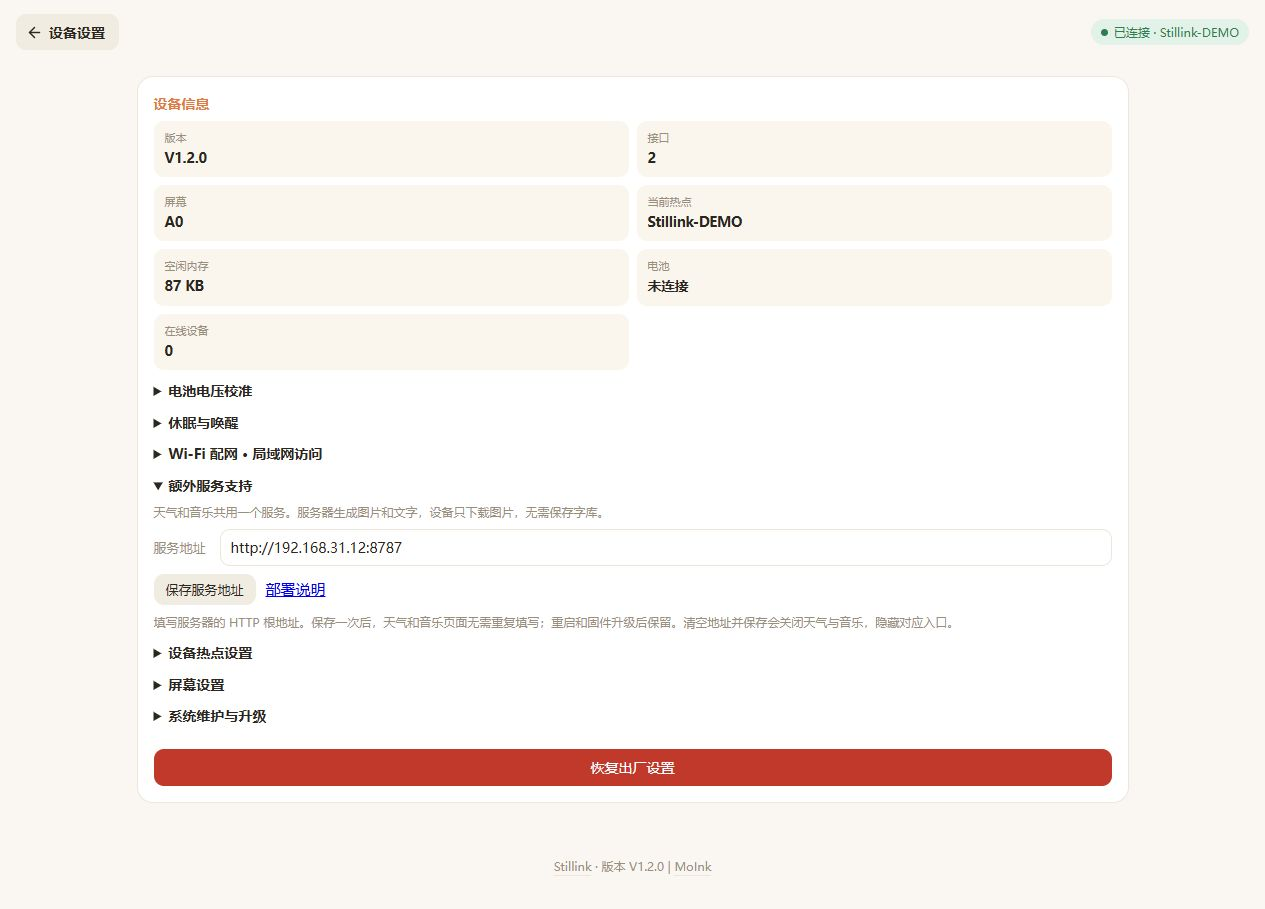
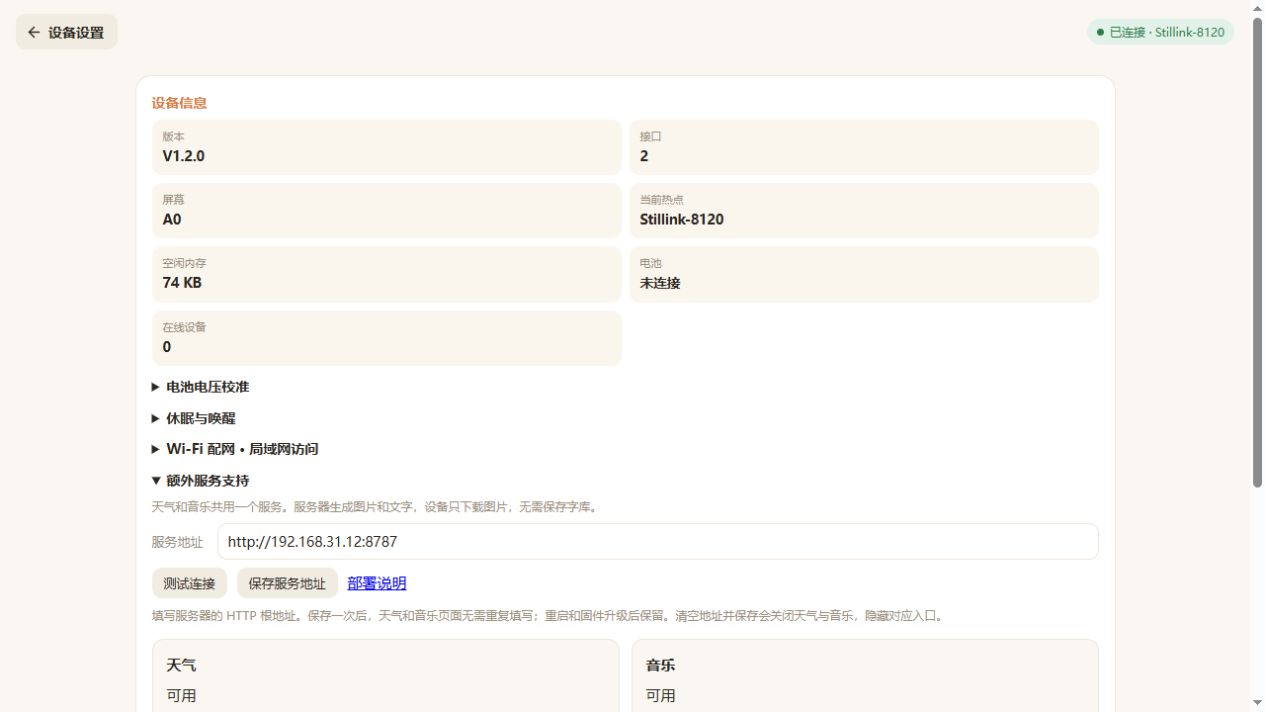
Refresh README with live music and updated service previews

diff --git a/README.md b/README.md
@@ -17,7 +17,7 @@
 
 ## 功能展示
 
-以下为网页操作截图与示例预览，墨水屏效果以实物为准。
+以下为新版网页操作截图与卡片渲染预览，墨水屏效果以实物为准。天气、音乐预览统一使用圆角和灰色边框。
 
 ### 拍立得
 
@@ -39,9 +39,9 @@
 
 ### 音乐
 
-Windows 广播播放器的歌曲、歌手、专辑和封面，服务器生成以大封面为主、附简短歌名和歌手的卡片，设备在切歌时自动更新。支持接入系统媒体控件的 QQ 音乐、Spotify 等播放器；缺少封面时显示唱片占位图。[使用说明](docs/music.md)
+Windows 通过 UDP 广播播放器的歌曲、歌手、专辑和封面，服务器生成 **512 × 512 圆角大封面**卡片，右侧显示歌名与歌手，设备在切歌时自动更新。支持接入系统媒体控件的 QQ 音乐、Spotify 等播放器；缺少封面时显示唱片占位图。[使用说明](docs/music.md)
 
-![音乐：歌曲信息、卡片预览与同步开关](docs/images/music.png)
+![音乐：当前 Windows UDP 广播歌曲的圆角大封面与灰色预览框](docs/images/music.png)
 
 ### 配网与局域网访问
 
@@ -51,9 +51,9 @@ Windows 广播播放器的歌曲、歌手、专辑和封面，服务器生成以
 
 ### 额外服务支持
 
-天气与音乐只需配置一次共用服务地址，支持测试连接并显示两项服务的可用状态。为节省 ESP 的 Flash 和内存，字库与卡片渲染放在服务器，设备直接下载二进制图片。未配置服务时，只显示拍立得和便签。
+天气与音乐只需配置一次共用服务地址。保存后显示两张状态卡片，展开设置时每 15 秒更新：天气显示服务是否就绪，音乐未收到 Windows 广播时显示「等待音乐」，收到歌曲后才显示「可用」。为节省 ESP 的 Flash 和内存，字库与卡片渲染放在服务器，设备直接下载二进制图片。未配置服务时，只显示拍立得和便签。
 
-![设备设置：共用服务地址](docs/images/services.png)
+![设备设置：共用服务地址与天气、音乐状态卡片](docs/images/services.png)
 
 ### 屏幕与电源设置
 
